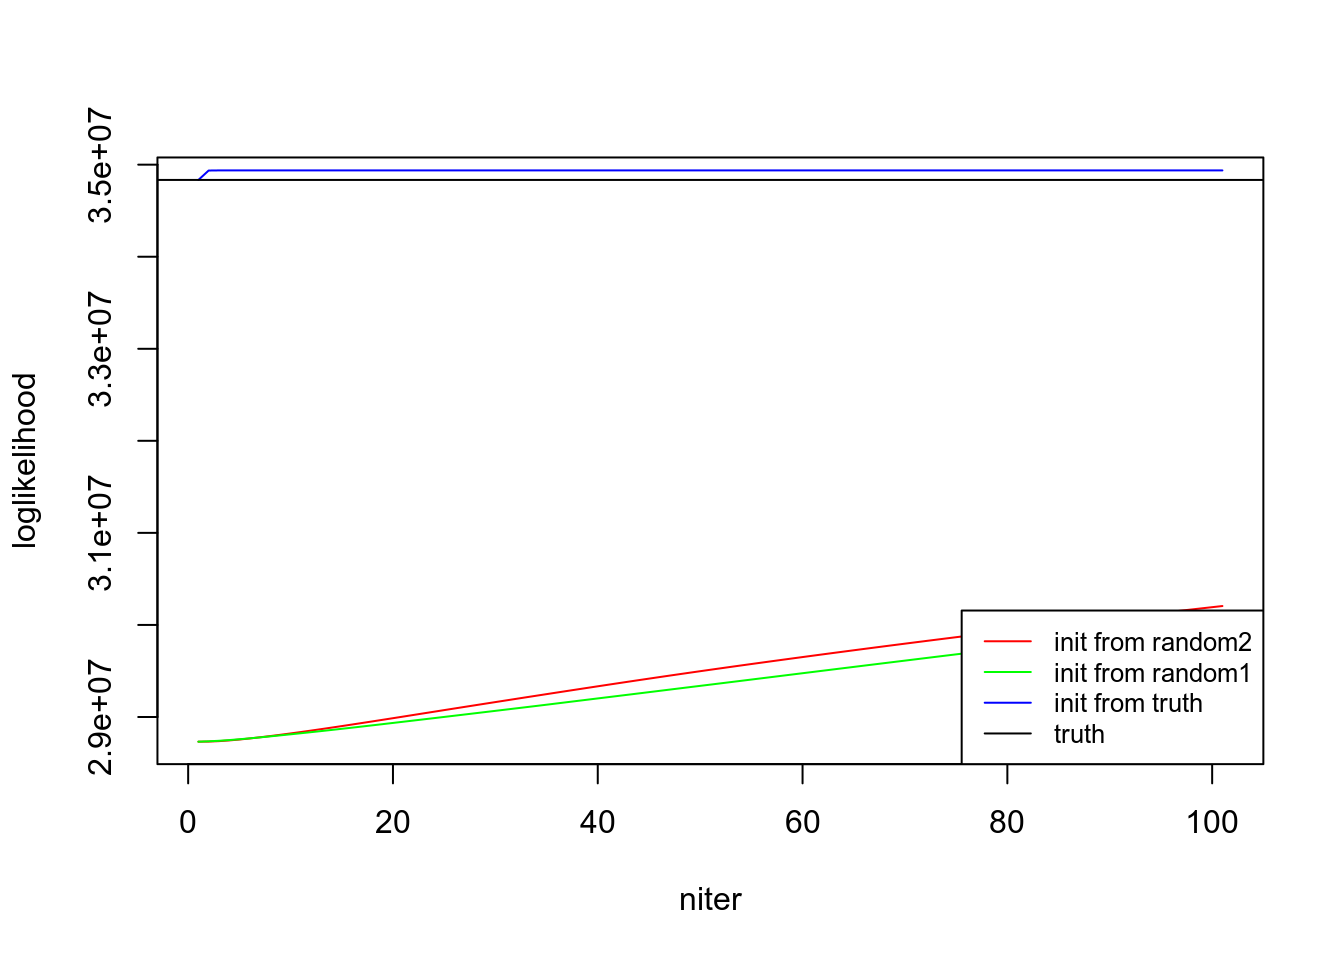
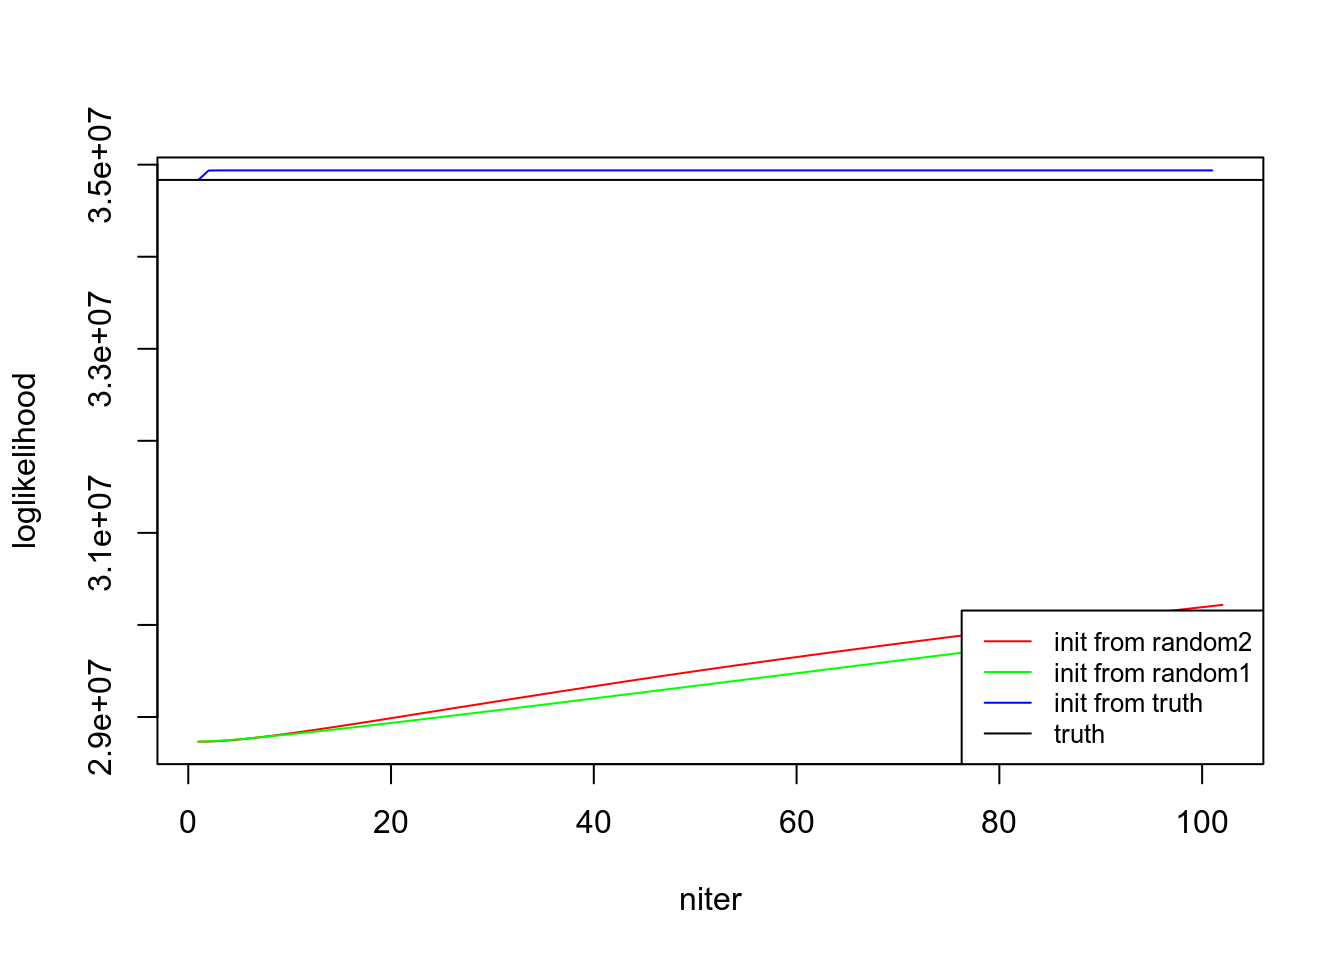
Build site.

diff --git a/docs/experiment_nb_means2.html b/docs/experiment_nb_means2.html
@@ -509,10 +509,10 @@ unnamed-chunk-3
 <div class="panel panel-default">
 <div class="panel-heading">
 <p class="panel-title">
-<a data-toggle="collapse" data-parent="#workflowr-checks" href="#strongRepositoryversionstrongahrefhttpsgithubcomzihao12ebpmfdemotree95fec5956436be6e02c77db15833618867d4d0cbtargetblank95fec59a"> <span class="glyphicon glyphicon-ok text-success" aria-hidden="true"></span> <strong>Repository version:</strong> <a href="https://github.com/zihao12/ebpmf_demo/tree/95fec5956436be6e02c77db15833618867d4d0cb" target="_blank">95fec59</a> </a>
+<a data-toggle="collapse" data-parent="#workflowr-checks" href="#strongRepositoryversionstrongahrefhttpsgithubcomzihao12ebpmfdemotree2860e8d1569eb69ca4b89d7c6db627f2829be3b4targetblank2860e8da"> <span class="glyphicon glyphicon-ok text-success" aria-hidden="true"></span> <strong>Repository version:</strong> <a href="https://github.com/zihao12/ebpmf_demo/tree/2860e8d1569eb69ca4b89d7c6db627f2829be3b4" target="_blank">2860e8d</a> </a>
 </p>
 </div>
[2 lines of base64/hex data omitted]
 <div class="panel-body">
 <p>
 Great! You are using Git for version control. Tracking code development and connecting the code version to the results is critical for reproducibility. The version displayed above was the version of the Git repository at the time these results were generated. <br><br> Note that you need to be careful to ensure that all relevant files for the analysis have been committed to Git prior to generating the results (you can use <code>wflow_publish</code> or <code>wflow_git_commit</code>). workflowr only checks the R Markdown file, but you know if there are other scripts or data files that it depends on. Below is the status of the Git repository when the results were generated:
@@ -601,6 +601,40 @@ Message
 </tr>
 </thead>
 <tbody>
+<tr>
+<td>
+Rmd
+</td>
+<td>
+<a href="https://github.com/zihao12/ebpmf_demo/blob/2860e8d1569eb69ca4b89d7c6db627f2829be3b4/analysis/experiment_nb_means2.Rmd" target="_blank">2860e8d</a>
+</td>
+<td>
+zihao12
+</td>
+<td>
+2020-04-03
+</td>
+<td>
+add starting from truth
+</td>
+</tr>
+<tr>
+<td>
+html
+</td>
+<td>
+<a href="https://rawcdn.githack.com/zihao12/ebpmf_demo/1a855a09cd8ac129edffdf656c38c3f7d6fda5a2/docs/experiment_nb_means2.html" target="_blank">1a855a0</a>
+</td>
+<td>
+zihao12
+</td>
+<td>
+2020-04-03
+</td>
+<td>
+Build site.
+</td>
+</tr>
 <tr>
 <td>
 Rmd
@@ -1109,7 +1143,7 @@ set.seed(123)</code></pre>
 <!-- ```{r cache=TRUE, autodep=TRUE, message=FALSE, warning=FALSE} -->
 <!-- exper <- exper_nb_means(K = 10, p = 99, maxiter = 100, verbose = FALSE) -->
 <!-- ``` -->
-<pre class="r"><code>exper &lt;- exper_nb_means(K = 10, p = 999, maxiter = 100, verbose = FALSE)</code></pre>
+<pre class="r"><code>exper &lt;- exper_nb_means(K = 10, p = 999, maxiter = 101, verbose = FALSE)</code></pre>
 <ul>
 <li>There are optimization issues when initializing from truth, or running too many iterations …</li>
 </ul>
@@ -1150,6 +1184,17 @@ Date
 </tr>
 </thead>
 <tbody>
+<tr>
+<td>
+<a href="https://github.com/zihao12/ebpmf_demo/blob/1a855a09cd8ac129edffdf656c38c3f7d6fda5a2/docs/figure/experiment_nb_means2.Rmd/unnamed-chunk-4-1.png" target="_blank">1a855a0</a>
+</td>
+<td>
+zihao12
+</td>
+<td>
+2020-04-03
+</td>
+</tr>
 <tr>
 <td>
 <a href="https://github.com/zihao12/ebpmf_demo/blob/f05ed4a1e5ae7b04f7181450a2adac9b9f6d2d4b/docs/figure/experiment_nb_means2.Rmd/unnamed-chunk-4-1.png" target="_blank">f05ed4a</a>
@@ -1539,12 +1584,13 @@ other attached packages:
 [1] workflowr_1.6.0
 
 loaded via a namespace (and not attached):
- [1] Rcpp_1.0.3      rprojroot_1.3-2 digest_0.6.23   later_1.0.0    
- [5] R6_2.4.1        backports_1.1.5 git2r_0.26.1    magrittr_1.5   
- [9] evaluate_0.14   stringi_1.4.5   rlang_0.4.4     fs_1.3.1       
-[13] promises_1.1.0  whisker_0.4     rmarkdown_2.1   tools_3.6.3    
-[17] stringr_1.4.0   glue_1.3.1      httpuv_1.5.2    xfun_0.12      
-[21] yaml_2.2.1      compiler_3.6.3  htmltools_0.4.0 knitr_1.28     </code></pre>
+ [1] Rcpp_1.0.3       codetools_0.2-16 rprojroot_1.3-2  digest_0.6.23   
+ [5] later_1.0.0      R6_2.4.1         backports_1.1.5  git2r_0.26.1    
+ [9] magrittr_1.5     evaluate_0.14    stringi_1.4.5    rlang_0.4.4     
+[13] fs_1.3.1         promises_1.1.0   whisker_0.4      rmarkdown_2.1   
+[17] tools_3.6.3      stringr_1.4.0    glue_1.3.1       httpuv_1.5.2    
+[21] xfun_0.12        yaml_2.2.1       compiler_3.6.3   htmltools_0.4.0 
+[25] knitr_1.28      </code></pre>
 </div>
 </div>
 
